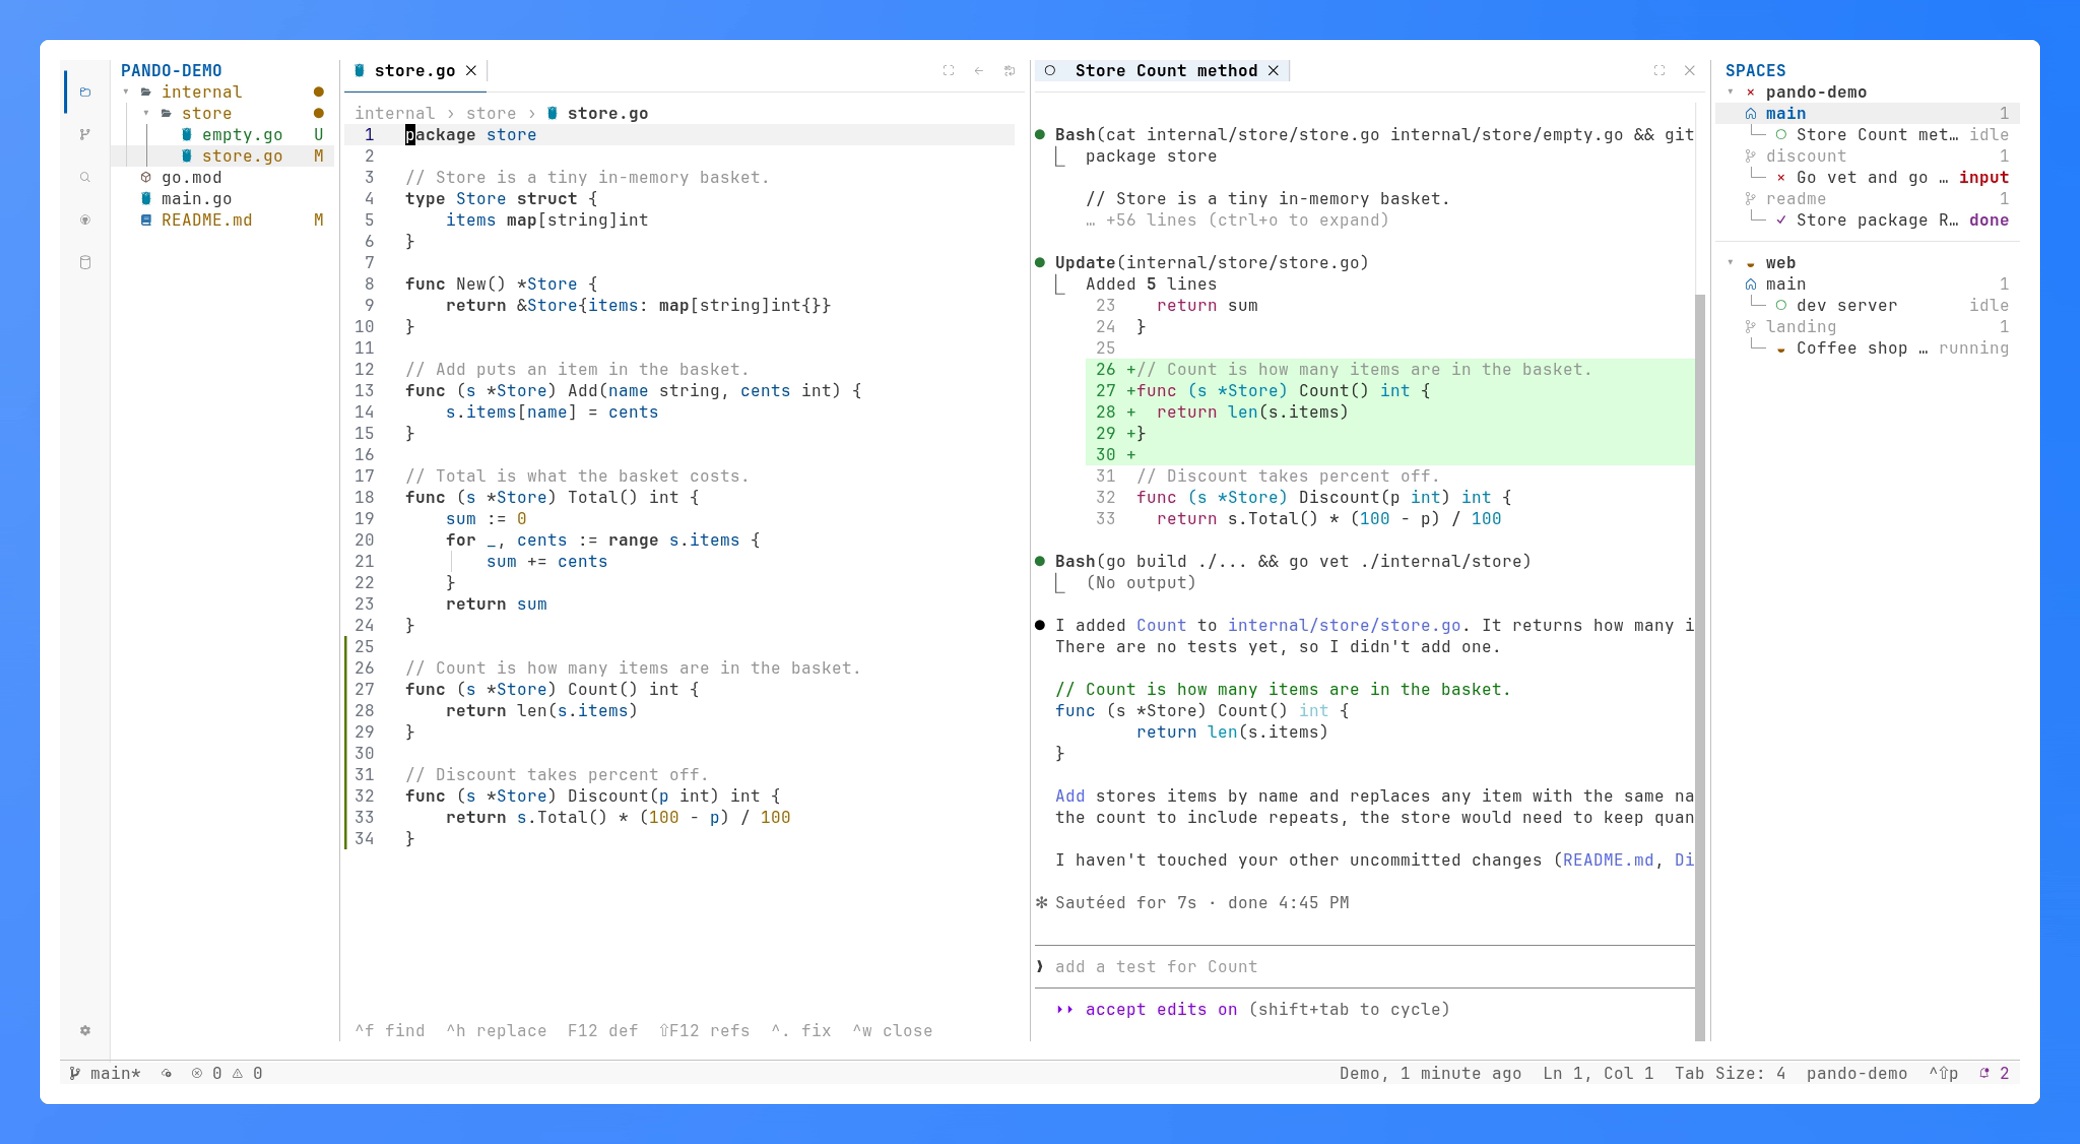
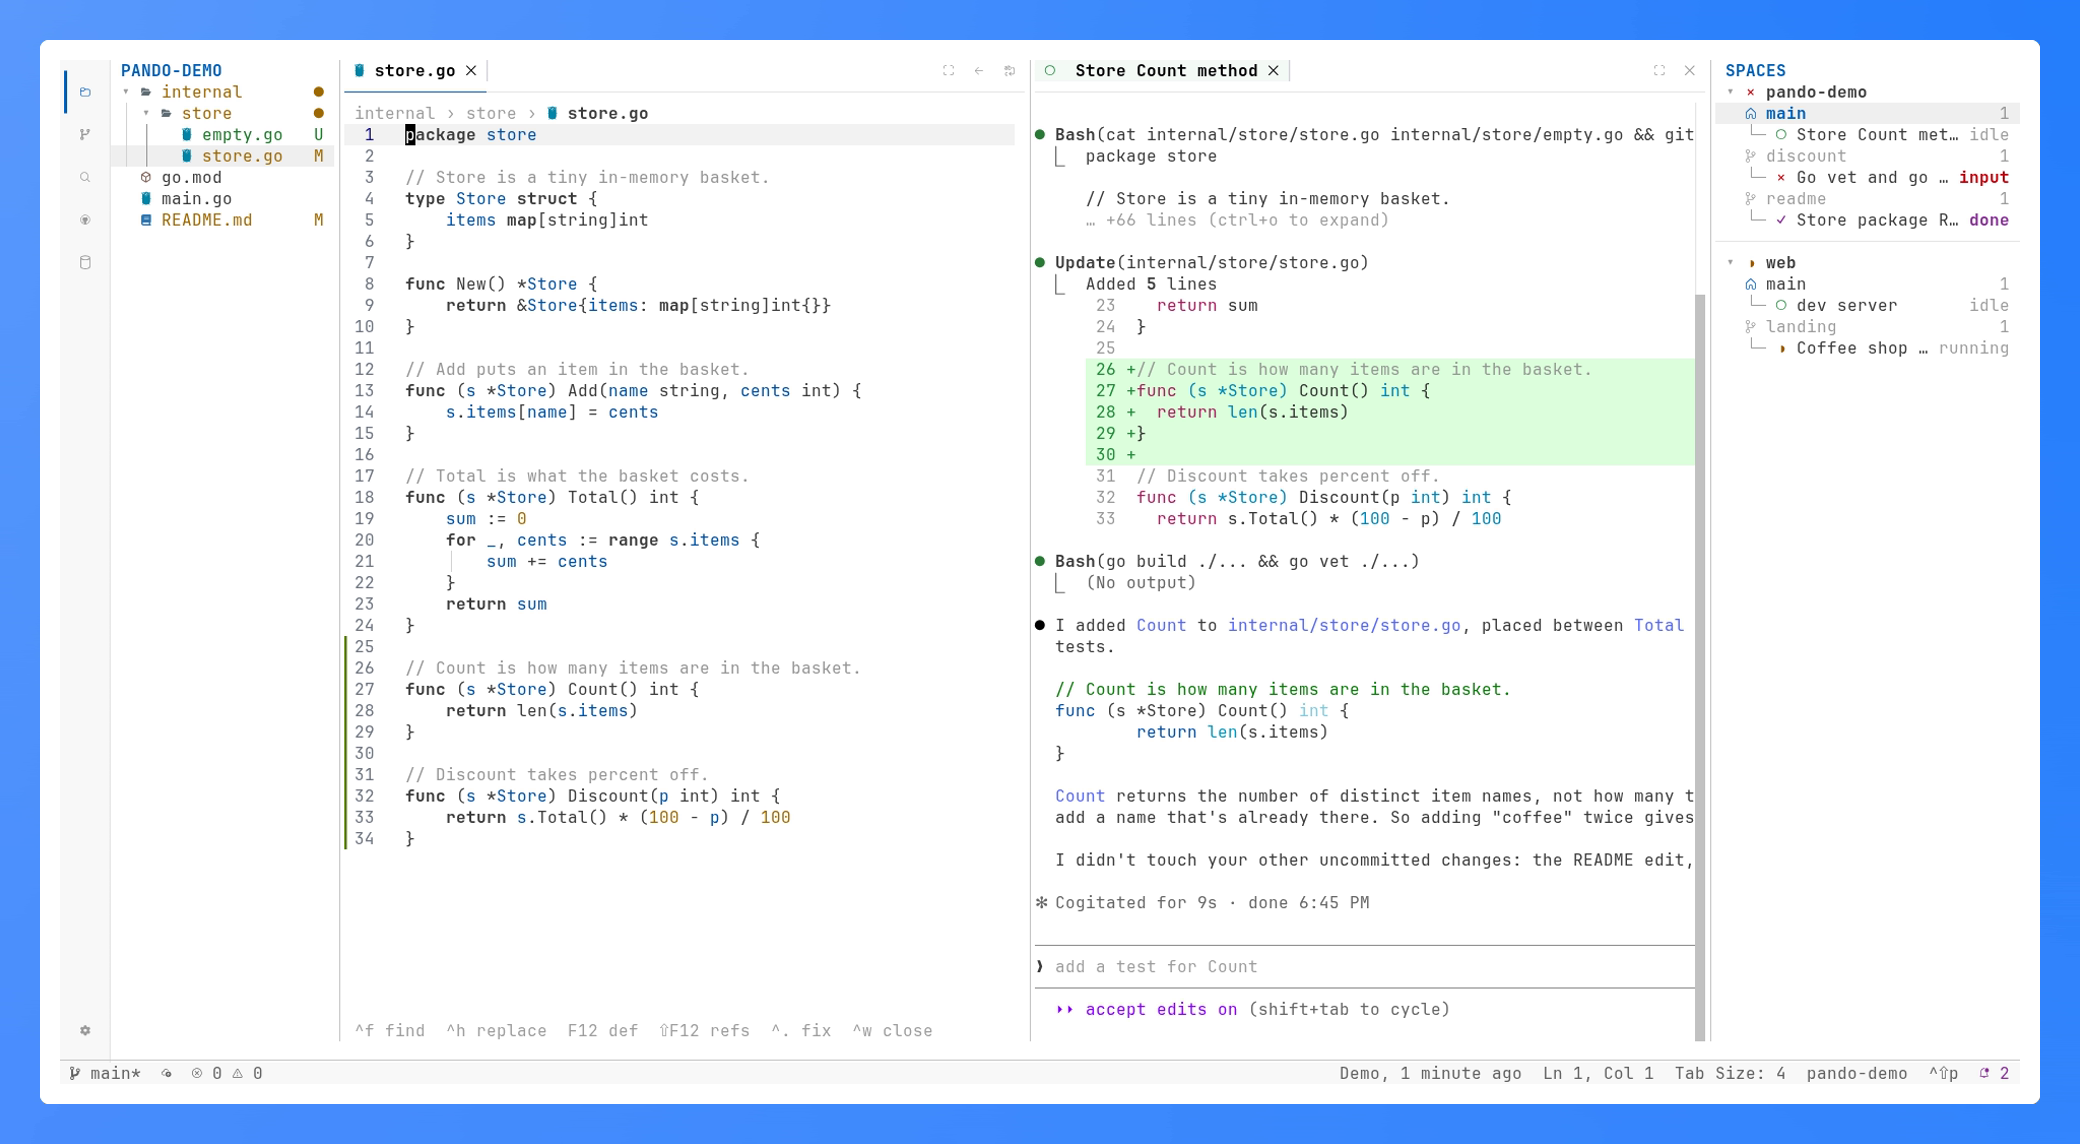
fix(ui): a darker green for ok in the light theme

diff --git a/internal/ui/theme.go b/internal/ui/theme.go
@@ -110,7 +110,7 @@ var (
 		diffDelMark: hex("#ad0707"), diffAddMark: hex("#587c0c"), diffModMark: hex("#2090d3"), // VS Code light's modified gutter: yellow fades on white
 		mergeCurrentHeadBg: hex("#a0e4d7"), mergeCurrentBg: hex("#d9f4ef"), mergeIncomingHeadBg: hex("#a0d3ff"), mergeIncomingBg: hex("#d9edff"),
 		mergeCommonHeadBg: hex("#c0c0c0"), mergeCommonBg: hex("#e6e6e6"),
-		ok: hex("#2ea043"), warn: hex("#9a5a00"), errc: hex("#c5000b"), attention: hex("#862f95"),
+		ok: hex("#1f883d"), warn: hex("#9a5a00"), errc: hex("#c5000b"), attention: hex("#862f95"),
 		blockedBg: hex("#edd4d4"), doneBg: hex("#e2d9e8"),
 		blockedSoftBg: hex("#f6e8e8"), doneSoftBg: hex("#efeaf3"),
 		// Zed's slider over no track: a rule down it, its border.
